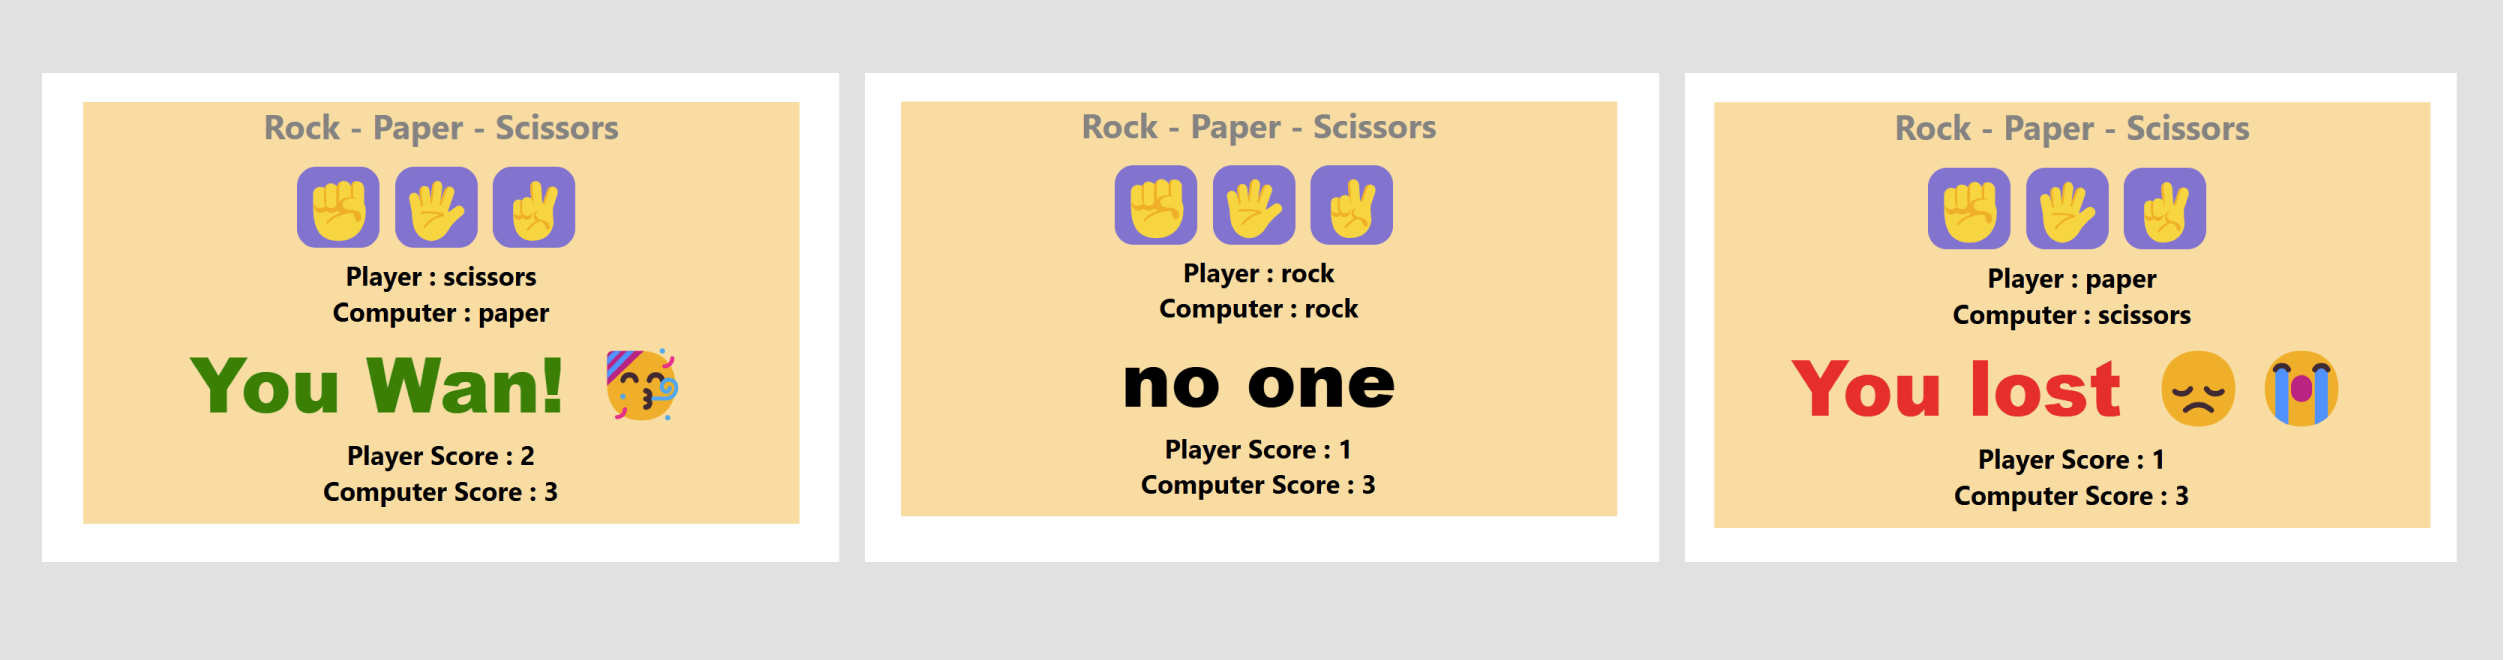
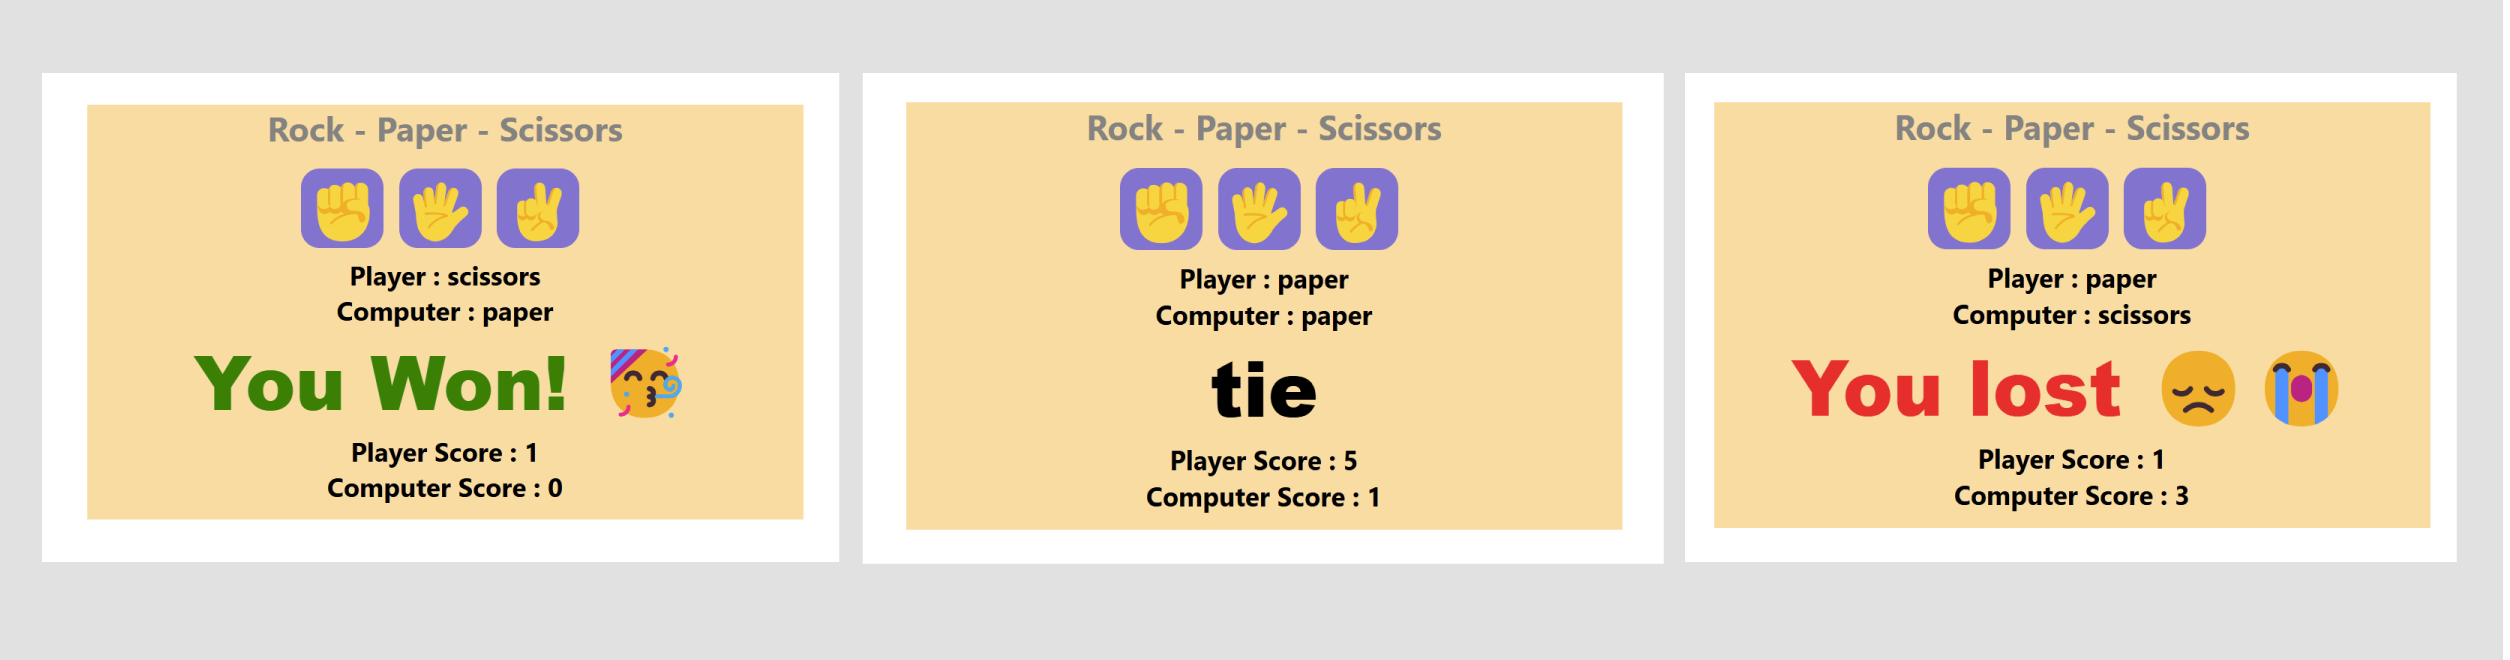
UPD file

diff --git a/RockPaper/index.js b/RockPaper/index.js
@@ -14,7 +14,7 @@ playerChoices.forEach(playerchoice=>{
         player.textContent ="Player : "+ (playerchoice.id.startsWith("rock")?"rock":playerchoice.id.startsWith("paper")?"paper":playerchoice.id.startsWith("scissors")?"scissors":"");
         if(playerchoice.id.startsWith(computerChoices)){
             result.style.color="black";
-            result.textContent="no one";
+            result.textContent="tie";
         }//
         else if(
              (playerchoice.id.startsWith("rock")&&(computerChoices==="scissors"))
@@ -23,7 +23,7 @@ playerChoices.forEach(playerchoice=>{
             ){
              playerGet++;
              result.style.color="green";
-             result.textContent="You Wan! 🥳";
+             result.textContent="You Won! 🥳";
         }//
         else{
             computerGet++;
